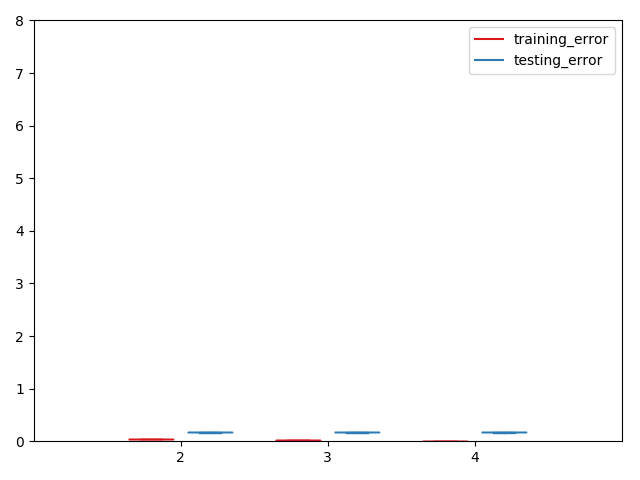
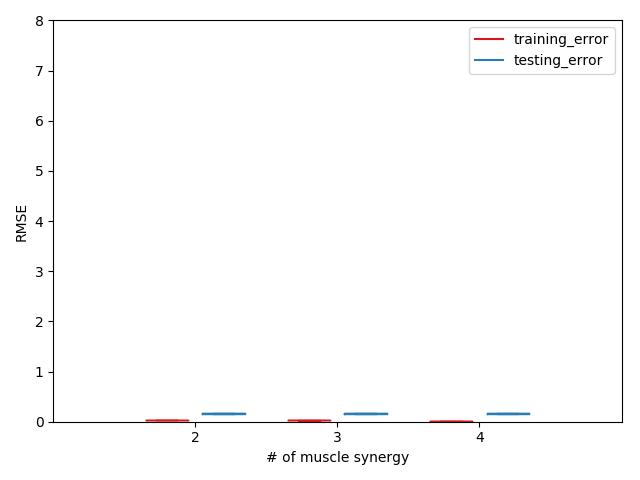
edit vaf code

diff --git a/src/script/vaf_compute.py b/src/script/vaf_compute.py
@@ -64,15 +64,18 @@ def rank_determine_helper(A, rank, repeat_num):
         local_vaf.append(local_VAF) #(100,8)
         VAF_mean = np.mean(np.array(GLOBAL_VAF))
 
+    # modify
+
     # print("VAF_max is: ",VAF_max)
     # print("VAF_mean is: ",VAF_mean)
     
-    # if VAF_mean > 90 and np.all(np.mean(local_VAF,axis = 0)> 80):
-    #     return VAF_mean, VAF_max, H_max, W_max, train_err, test_err
-    # else:
-    #     return False
+    if VAF_mean > 90 and np.all(np.mean(local_VAF,axis = 0)> 80):
+        return VAF_mean, VAF_max, H_max, W_max, train_err, test_err
+    else:
+        return False
 
     return VAF_mean, VAF_max, H_max, W_max, train_err, test_err
+
     
 if __name__ == "__main__":
 
@@ -169,59 +172,136 @@ if __name__ == "__main__":
 
     bootstrap = 20
 
-    # concatenate all sets together
+    # # concatenate all sets together
 
-    SEG_STATE4, SEG_STATE5 = np.empty((600, 8)), np.empty((600, 8))
-    SEG_STATE4[:], SEG_STATE5[:] = np.nan, np.nan
+    # SEG_STATE4, SEG_STATE5 = np.empty((600, 8)), np.empty((600, 8))
+    # SEG_STATE4[:], SEG_STATE5[:] = np.nan, np.nan
 
-    for i in range(3):
-        seg_state4,seg_state5 = process_state4_5(matching_path, SET_TRAILS[i], baseline_sitting, bootstrap)
-        norm_seg4 = norm_vec(seg_state4, max_set)
-        norm_seg5 = norm_vec(seg_state5, max_set) # 200*8
-        # append all sets of segment 4 and 5 together in SEG_STATE4 and SEG_STATE5
-        SEG_STATE4[i * norm_seg4.shape[0] : (i + 1) * norm_seg4.shape[0], :] = norm_seg4
-        SEG_STATE5[i * norm_seg5.shape[0] : (i + 1) * norm_seg5.shape[0], :] = norm_seg5
+    # for i in range(3):
+    #     seg_state4,seg_state5 = process_state4_5(matching_path, SET_TRAILS[i], baseline_sitting, bootstrap)
+    #     norm_seg4 = norm_vec(seg_state4, max_set)
+    #     norm_seg5 = norm_vec(seg_state5, max_set) # 200*8
+    #     # append all sets of segment 4 and 5 together in SEG_STATE4 and SEG_STATE5
+    #     SEG_STATE4[i * norm_seg4.shape[0] : (i + 1) * norm_seg4.shape[0], :] = norm_seg4
+    #     SEG_STATE5[i * norm_seg5.shape[0] : (i + 1) * norm_seg5.shape[0], :] = norm_seg5
    
+    # # modify A
+    # A = SEG_STATE4[~np.isnan(SEG_STATE4).any(axis=1)]
     
-    A = SEG_STATE4[~np.isnan(SEG_STATE4).any(axis=1)]
-    
-    
+    # modify
+
     # # only consider one set: 
 
     # seg_state4,seg_state5 = process_state4_5(matching_path, SET_TRAILS[0], baseline_sitting, bootstrap)
     # norm_seg4 = norm_vec(seg_state4, max_set)
     # norm_seg5 = norm_vec(seg_state5, max_set) 
     # A = norm_seg4[~np.isnan(norm_seg4).any(axis=1)] # 200 * 8 
+
     
+    # Append the max H and W together for all sets
+    all_H = []
+    for i in range(3):
+        seg_state4,seg_state5 = process_state4_5(matching_path, SET_TRAILS[i], baseline_sitting, bootstrap)
+        norm_seg4 = norm_vec(seg_state4, max_set)
+        norm_seg5 = norm_vec(seg_state5, max_set) 
+        A = norm_seg4[~np.isnan(norm_seg4).any(axis=1)] # 200 * 8 
 
 
-    VAF_mean_last = 0
-    VAF_max_last = 0
-    H_max_last = 0
-    W_max_last = 0
-    num = 0
+        VAF_mean, VAF_max, H_max, W_max, train, test = rank_determine_helper(A, 4, 100)
+        magnitute_0 = LA.norm(H_max[0])
+        magnitute_1 = LA.norm(H_max[1])
+        magnitute_2 = LA.norm(H_max[2])
+        magnitute_3 = LA.norm(H_max[3])
+
+        all_H.append(H_max[0]/magnitute_0)
+        all_H.append(H_max[1]/magnitute_1)
+        all_H.append(H_max[2]/magnitute_2)
+        all_H.append(H_max[3]/magnitute_3)
+
+        W_maxT = W_max.T
+        W_maxT_C0 = W_maxT[0]*magnitute_0
+        W_maxT_C1 = W_maxT[1]*magnitute_1
+        W_maxT_C2 = W_maxT[2]*magnitute_2
+        W_maxT_C3 = W_maxT[3]*magnitute_3
+
+        W = np.vstack((W_maxT_C0,W_maxT_C1,W_maxT_C2,W_maxT_C3))
+        print('W for set: ',i)
+        print(W.T)
+   
+
+    # # modify
+
+    # VAF_mean_last = 0
+    # VAF_max_last = 0
+    # H_max_last = 0
+    # W_max_last = 0
+    # num = 0
     
-    for rank in range(4,1,-1):
-      print('rank is: ',rank)
-      if rank_determine_helper(A, rank, 100):
-          VAF_mean, VAF_max, H_max, W_max, train_err, test_err = rank_determine_helper(A, rank, 100)
-          print("# basis vector is determined to be: ", rank)
-          print(" VAF_mean : ",VAF_mean)
-          print(" VAF is : ",VAF_max)
-      else:
-          continue
+    # for rank in range(4,1,-1):
+    #   print('rank is: ',rank)
+    #   if rank_determine_helper(A, rank, 100):
+    #       VAF_mean, VAF_max, H_max, W_max, train_err, test_err = rank_determine_helper(A, rank, 100)
+    #       print("# basis vector is determined to be: ", rank)
+    #   else:
+    #       continue
 
-      if VAF_mean >= VAF_mean_last or (VAF_mean_last - VAF_mean) < 3:
-          VAF_mean_last, vaf_max_last, H_max_last, W_max_last = VAF_mean, VAF_max, H_max, W_max
-          num = rank
+    #   if VAF_mean >= VAF_mean_last or (VAF_mean_last - VAF_mean) < 3:
+    #       VAF_mean_last, vaf_max_last, H_max_last, W_max_last = VAF_mean, VAF_max, H_max, W_max
+    #       num = rank
         
-      else:
-          break
+    #   else:
+    #       break
+    
+    
+    
+    EMGs = 8
+    width = 0.5  
+    ind = np.arange(EMGs) 
+
+    plt.title('Muscle synergy for set1')   
+    for i in range(1,5):
+        plt.subplot(2,2,i)
+        plt.bar(ind, all_H[i-1], width,label='basis_vec '+ str(i))
+        plt.ylabel('Normalized Activation Strength for basis vector' + str(i) + ' of set 1')
+        plt.xticks(rotation=45, ha='right')
+        plt.xticks(ind, ('Bicep','Tricep lateral','Anterior deltoid','Medial deltoid','Posterior deltoid','Pectoralis major','Lower trapezius','Middle trapezius'))
+        plt.legend(loc='best')
+    plt.title('Normalized Muscle synergy for set 1')
+
+    plt.savefig('/home/mushenghe/Desktop/final_project/muscle_synergy/src/image/Oct23/bootstrap_#2_set1.png')
+    plt.show()
+
+    for i in range(5,9):
+        plt.subplot(2,2,i-4)
+        plt.bar(ind, all_H[i-1], width,label='basis_vec '+ str(i-4))
+        plt.ylabel('Normalized Activation Strength for basis vector' + str(i-4) + ' of set 2')
+        plt.xticks(rotation=45, ha='right')
+        plt.xticks(ind, ('Bicep','Tricep lateral','Anterior deltoid','Medial deltoid','Posterior deltoid','Pectoralis major','Lower trapezius','Middle trapezius'))
+        plt.legend(loc='best')
+    plt.title('Normalized Muscle synergy for set 2')
+
+    plt.savefig('/home/mushenghe/Desktop/final_project/muscle_synergy/src/image/Oct23/bootstrap_#2_set2.png')
+    plt.show()
+
+    for i in range(9,13):
+        plt.subplot(2,2,i-8)
+        plt.bar(ind, all_H[i-1], width,label='basis_vec '+ str(i-8))
+        plt.ylabel('Normalized Activation Strength for basis vector' + str(i-8) + ' of set 3')
+        plt.xticks(rotation=45, ha='right')
+        plt.xticks(ind, ('Bicep','Tricep lateral','Anterior deltoid','Medial deltoid','Posterior deltoid','Pectoralis major','Lower trapezius','Middle trapezius'))
+        plt.legend(loc='best')
+    plt.title('Normalized Muscle synergy for set 3')
+
+    plt.savefig('/home/mushenghe/Desktop/final_project/muscle_synergy/src/image/Oct23/bootstrap_#2_set3.png')
+    plt.show()
+
+
+
 
     
 
     '''
-    # plot the RMSE of training set and validation set:
+    # boxplot the RMSE of training set and validation set:
 
     train_error = []
     test_error = []
@@ -260,11 +340,13 @@ if __name__ == "__main__":
     plt.xticks(xrange(0, len(ticks) * 2, 2), ticks)
     plt.xlim(-2, len(ticks)*2)
     plt.ylim(0, 8)
+    plt.ylabel('RMSE')
+    plt.xlabel('# of muscle synergy')
     plt.tight_layout()
     plt.savefig('nmf_compare.png')
     plt.show()
+    
     '''
-
 
 
 
@@ -272,6 +354,7 @@ if __name__ == "__main__":
 
     '''
     # plot the basis vectors
+
     EMGs = 8
     width = 0.5  
     ind = np.arange(EMGs) 

diff --git a/src/script/process_helper.py b/src/script/process_helper.py
@@ -48,6 +48,9 @@ def standard_process(data_vec, baseline, bootstrap):
     # 2. Rectify it and compute the mean for all data points
 
     subtractbase_data_vec = np.array(data_vec) - np.array(baseline)
+    if bootstrap == 0:
+        return np.mean(np.absolute(subtractbase_data_vec),axis = 0)
+
     rows, columns = subtractbase_data_vec.shape
     bootstrap_data = np.empty((bootstrap,8))
     bootstrap_data[:] = np.nan
@@ -57,9 +60,6 @@ def standard_process(data_vec, baseline, bootstrap):
         M = np.array([[np.repeat(Mask[i], columns)] for i in range(rows)]).reshape(rows,columns)
         target_data = subtractbase_data_vec[M].reshape(Mask.count(True),columns)
         bootstrap_data[index : index + 1, :] = np.mean(np.absolute(target_data),axis = 0)
-
-    # bootstrap_data = np.mean(np.absolute(subtractbase_data_vec),axis = 0)
-    # return bootstrap_data
 
     return bootstrap_data[~np.isnan(bootstrap_data).any(axis=1)]
 

diff --git a/src/script/nmf_crosscal.py b/src/script/nmf_crosscal.py
@@ -91,14 +91,18 @@ def crossval_nmf(A, rank, p_holdout=.25, tol=1e-4):
     train_hist = [np.sqrt(np.mean((resid[M]) ** 2))]
     test_hist = [np.sqrt(np.mean((resid[~M]) ** 2))]
 
+    # impose nonnegativity
+    bounds_H = [(0, None) for _ in range(H.size)] 
+    bounds_W = [(0, None) for _ in range(W.size)]
+
   
     # optimize
     while not converged:
-        r = censored_least_squares(W, H, A, M)
+        r = censored_least_squares(W, H, A, M, bounds = bounds_H)
         H = r.x.reshape(rank, n)
 
         # update W
-        r = censored_least_squares(H.T, W.T, A.T, M.T)
+        r = censored_least_squares(H.T, W.T, A.T, M.T, bounds = bounds_W)
         W = r.x.reshape(rank, m).T
 
         # recprd train/test error
